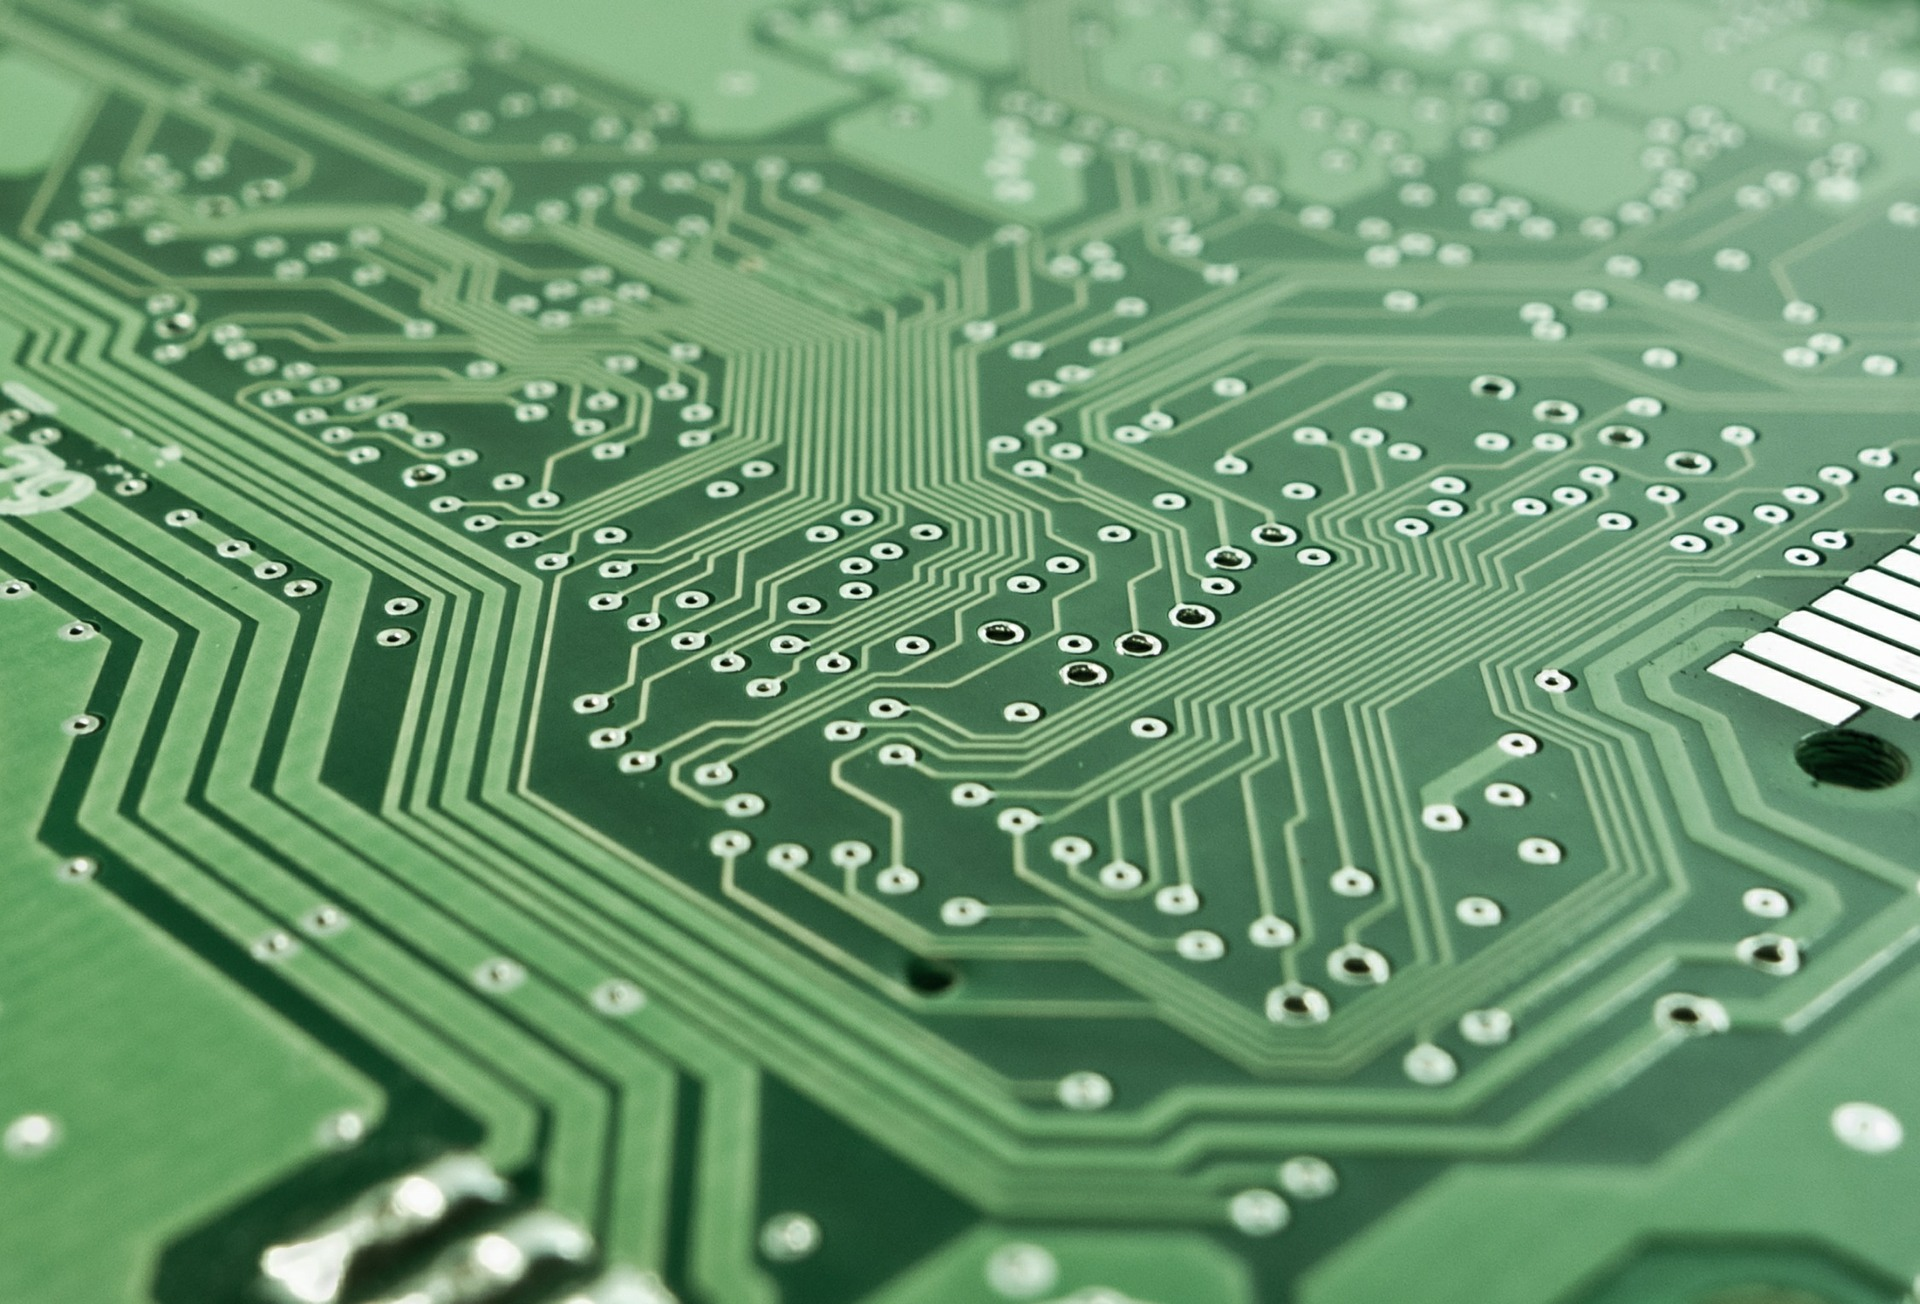
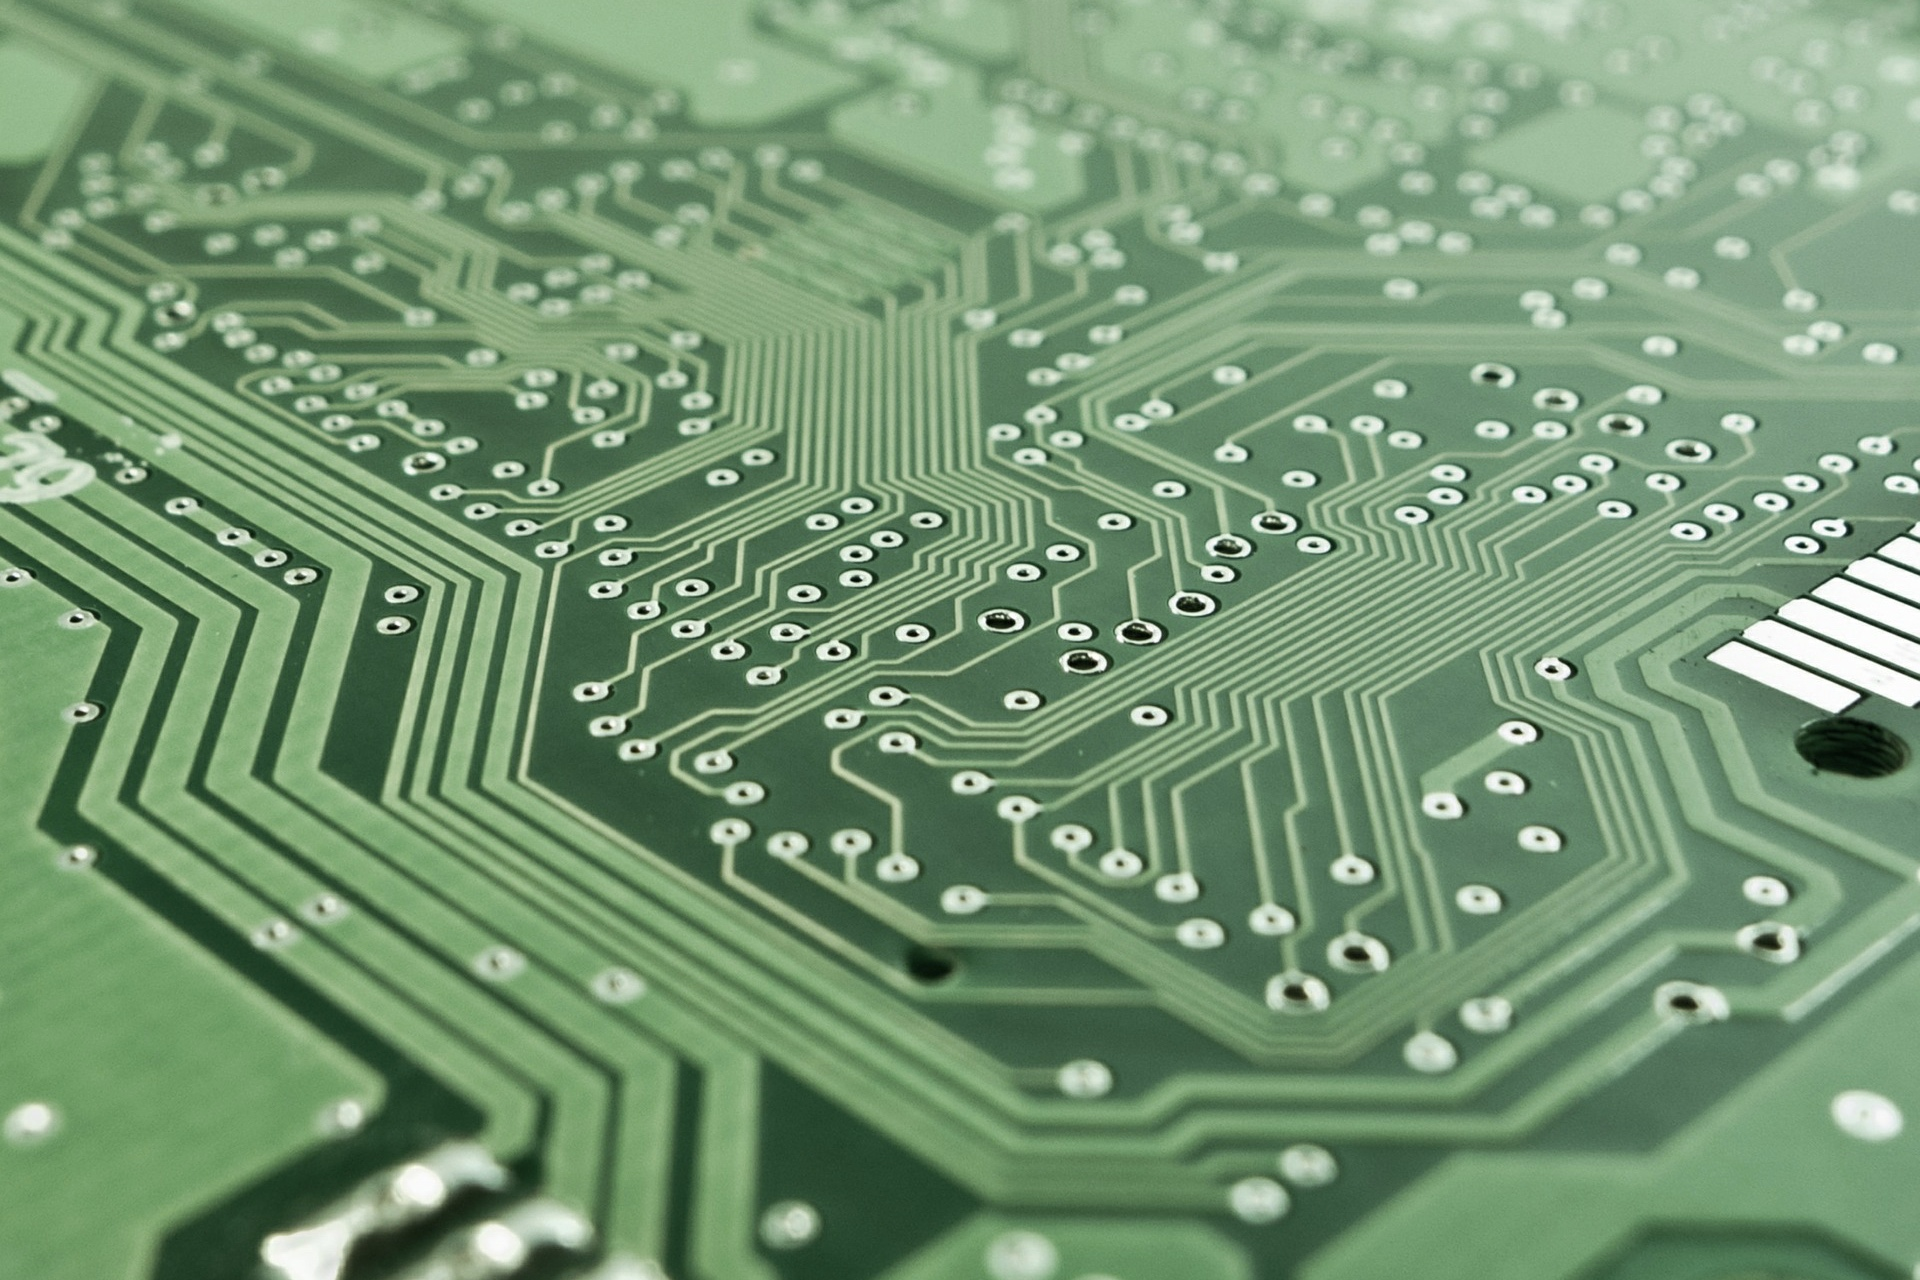
updated welcome pics
used 1920x1280 for welcome pic size

diff --git a/style.css b/style.css
@@ -11,12 +11,8 @@ html {
     font-family: 'Kaushan Script', cursive;
 }
 
-#carouselExampleCaptions {
-    width: 104vw;
-    min-height: 29rem;
-    max-height: 29rem;
-    margin-top: -8rem;
-    margin-bottom: 13rem;
+.carousel-item {
+    background-image: linear-gradient(rgba(0, 0, 0, 0.7), rgba(0, 0, 0, 0.7));
 }
 
 #lenova {
